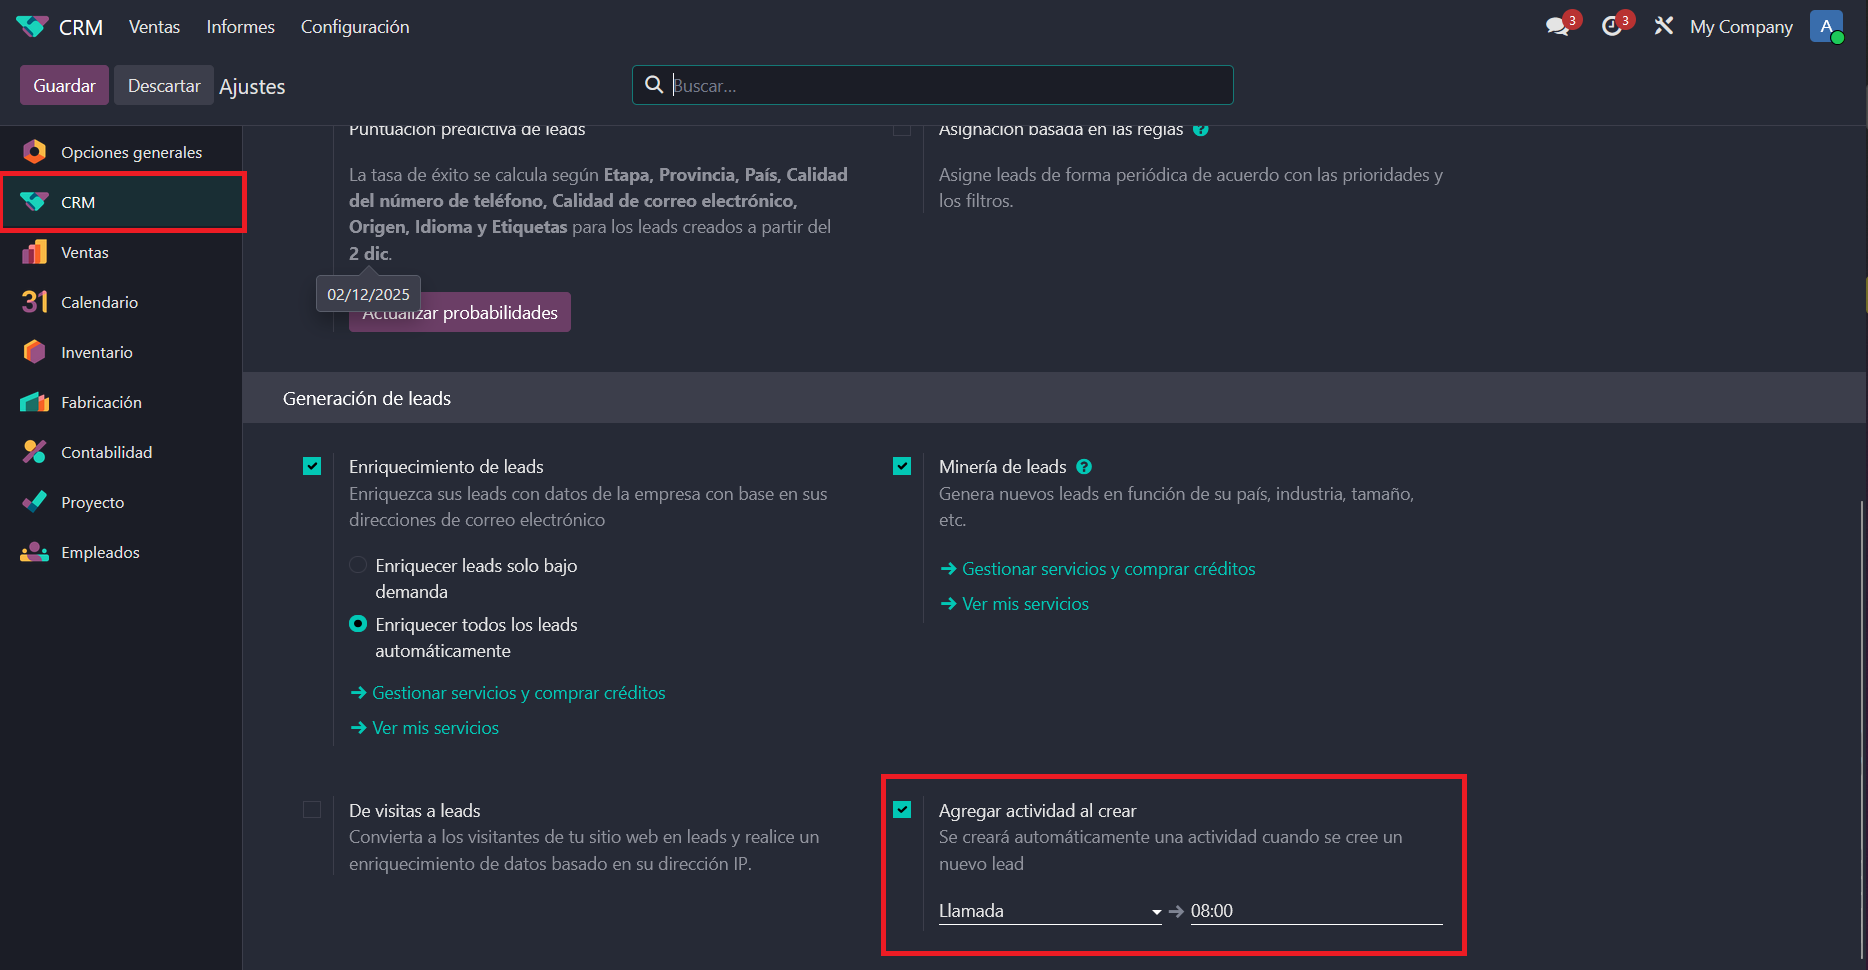
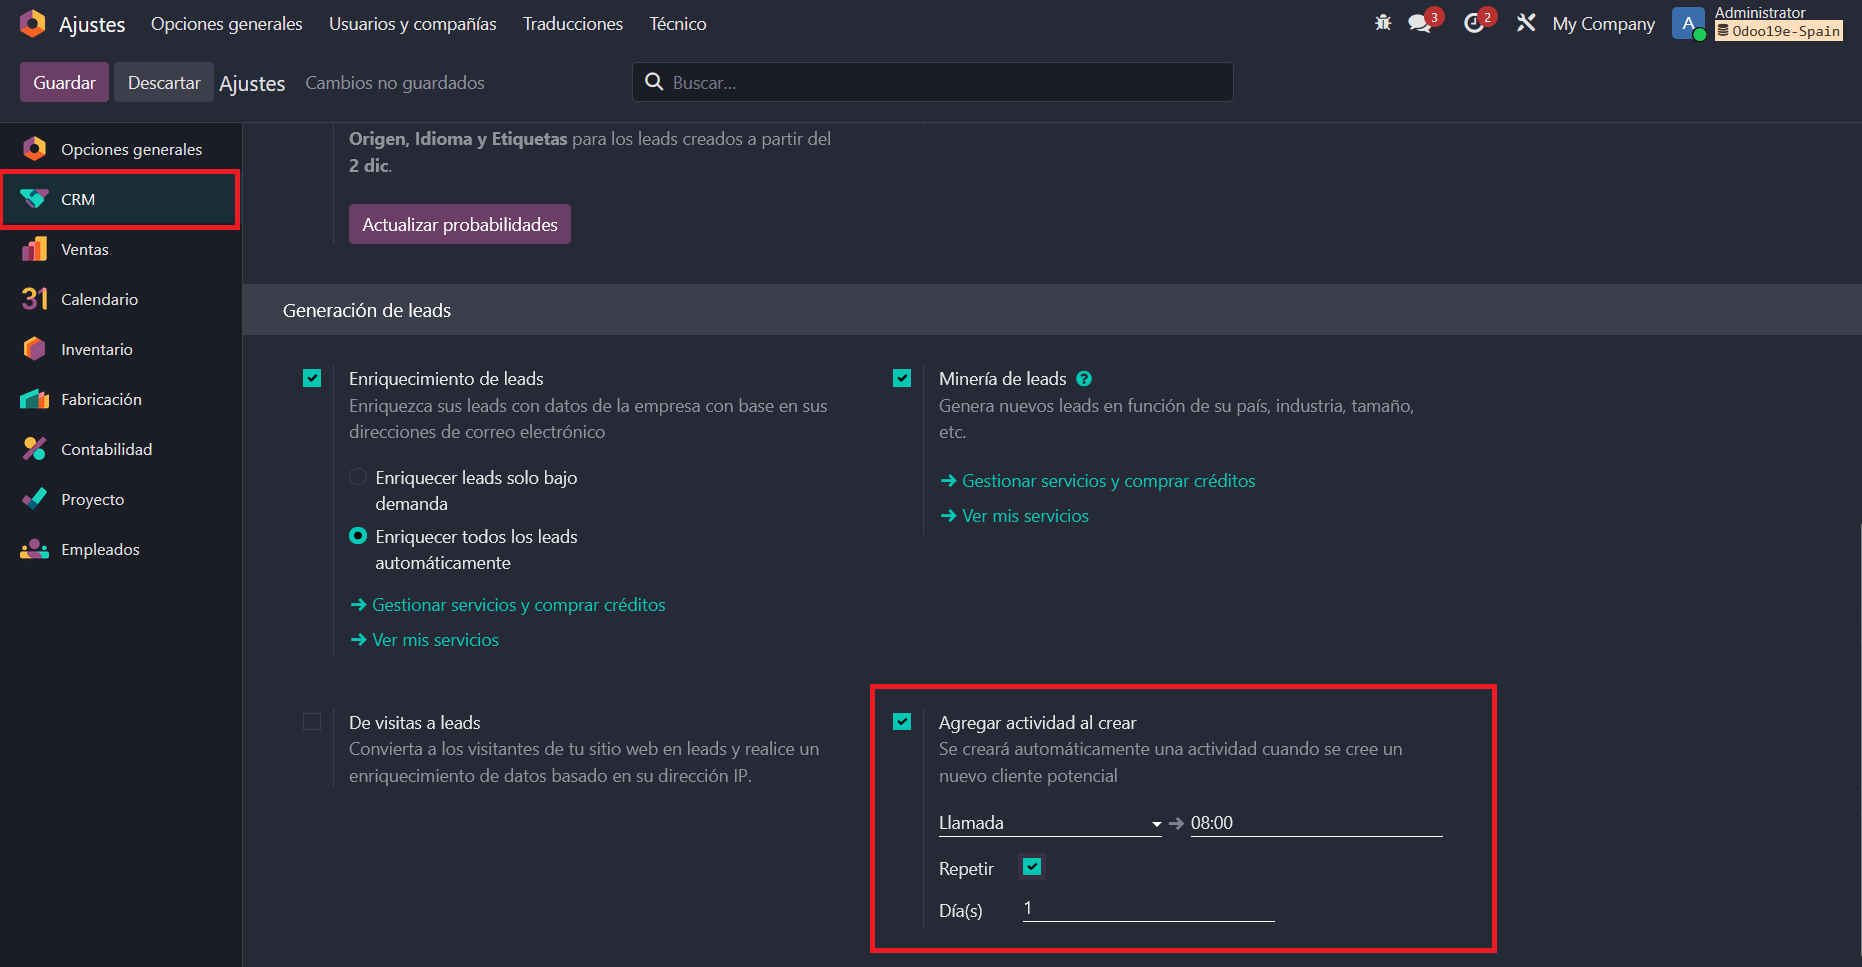
[ADD] e_activity_crm: Add in settings repeat data for automation creation [UPD] e_activity_crm: Check automated creation next time valid [i18n]

diff --git a/e_activity_crm/static/description/index.html b/e_activity_crm/static/description/index.html
@@ -49,7 +49,7 @@
                                 <img alt="Screenshot 1" class="img-fluid border rounded mt-2" src="assets/screenshots/1.png"/>
                             </li>
                             <li class="mb-3">
-                                <strong>Generic:</strong> Pick activity type, due-time and for automatic activity creation<br/>
+                                <strong>Generic:</strong> Pick activity type, due-time and repetition for automatic activity creation<br/>
                                 <img alt="Screenshot 2" class="img-fluid border rounded mt-2" src="assets/screenshots/2.png"/>
                             </li>
                             <li class="mb-3">
@@ -67,7 +67,7 @@
                             </li>
                             <li>
                                 <strong>Cron driven:</strong> A lightweight cron job (<code>ir.cron</code>) looks every configurated minutes for activities that match:
-                                <code>active = True, res_model = 'crm.lead', is_periodic = True, repeated = False, repetition_period &gt; 0</code> and duplicates them.
+                                <code>active = True, res_model = 'crm.lead', is_periodic = True, repeated = False, repetition_period_days < 0</code> and duplicates them.
                             </li>
                         </ul>
                     </div>

diff --git a/e_activity_crm/models/crm_lead.py b/e_activity_crm/models/crm_lead.py
@@ -1,5 +1,6 @@
 from odoo import api, fields, models, _
 from odoo.exceptions import UserError
+from datetime import datetime,UTC
 from odoo.addons.e_activity_datetime.utils.date import get_server_utc_datetime
 from datetime import timedelta
 class CrmLead(models.Model):
@@ -22,25 +23,35 @@ class CrmLead(models.Model):
             h, m = 8, 0
 
         deadline_datetime = get_server_utc_datetime(h,m)
-        
+        if deadline_datetime < datetime.now(UTC).replace(tzinfo=None):
+            deadline_datetime += timedelta(days=1)
+            
         activity_type_id = int(ICP.get_param('crm_lead_auto_activity.auto_lead_activity_type_id', default=0))
         if not activity_type_id:
             return leads
-
+        try:
+            periodic_vals = {
+                'is_periodic': bool(ICP.get_param('crm_lead_auto_activity.auto_is_periodic', default=False)),
+                'repetition_period_days': int(ICP.get_param('crm_lead_auto_activity.auto_repetition_period_days_days', default=0)),
+            }
+        except:
+            periodic_vals = {}
         activity_type = self.env['mail.activity.type'].browse(activity_type_id).exists()
         if not activity_type:
             raise UserError(_('The default activity type configured in CRM settings no longer exists.'))
-
+        
         activities = [{
             'res_id': lead.id,
             'res_model_id': self.env['ir.model']._get_id('crm.lead'),
             'activity_type_id': activity_type.id,
             'summary': _("Discovery Call") ,
-            'note': _('This is an automatic activity created upon lead creation.'),
+            'note': _('This is an automatic activity created upon lead start.'),
             'date_deadline': fields.Date.context_today(self),
             'datetime_deadline': deadline_datetime,
             'all_day':False,
             'user_id': lead.user_id.id or self.env.user.id,
+            **periodic_vals,
+            
         } for lead in leads]
         
         self.env['mail.activity'].create(activities)
@@ -54,13 +65,14 @@ class CrmLead(models.Model):
             ('res_model','=','crm.lead'),
             ('is_periodic','=',True),
             ('repeated','=',False),
-            ('repetition_period','>',0),
-        ]).filtered(lambda rec: fields.Datetime.now() > rec.datetime_deadline and rec.in_crm_stage)
+            ('repetition_period_days','>',0),
+        ]).filtered(lambda rec: rec.state == 'overdue' and rec.in_crm_stage)
         
         for activity in activities:
             activity.copy({
-                'datetime_deadline': activity.datetime_deadline + timedelta(days=activity.repetition_period),
-                'date_deadline': activity.date_deadline + timedelta(days=activity.repetition_period),
+                'datetime_deadline': activity.datetime_deadline + timedelta(days=activity.repetition_period_days),
+                'date_deadline': activity.date_deadline + timedelta(days=activity.repetition_period_days),
+                'note': f"[{_('REPEATED')}]" + activity.note,
             })
             activity.repeated = True,
             activity.env.cr.commit()

diff --git a/e_activity_crm/models/mail_activity.py b/e_activity_crm/models/mail_activity.py
@@ -4,7 +4,7 @@ class MailActivity(models.Model):
     _inherit = 'mail.activity'
     
     is_periodic = fields.Boolean("Is Periodic",default=False,help="If checked, this activity will be created again after being marked as done.")
-    repetition_period = fields.Integer("Repetition Period (Days)",default=1,help="Number of days after which the activity will be created again")
+    repetition_period_days = fields.Integer("Repetition Period (Days)",default=1,help="Number of days after which the activity will be created again")
     in_crm_stage = fields.Boolean("In CRM Stage",compute="_compute_in_crm_stage",help="Indicates whether this CRM activity is associated with a automated stage.") 
     repeated = fields.Boolean("Repeated",help="It indicates when the activity has already been repeated.")
     def _compute_in_crm_stage(self):

diff --git a/e_activity_crm/models/res_config_settings.py b/e_activity_crm/models/res_config_settings.py
@@ -19,3 +19,14 @@ class ResConfigSettings(models.TransientModel):
         help="Default time deadline for the created activity on new lead",
         config_parameter='crm_lead_auto_activity.auto_lead_time_deadline',
     )
+    auto_is_periodic = fields.Boolean(
+        string='Make Activity Periodic',
+        config_parameter='crm_lead_auto_activity.auto_is_periodic',
+        help="If checked, the created activity will be periodic.",
+    )
+    auto_repetition_period_days_days = fields.Integer(
+        string='Repetition Period (days)',
+        config_parameter='crm_lead_auto_activity.auto_repetition_period_days_days',
+        help="Number of days between each repetition of the activity.",
+        default=1,
+    )

diff --git a/e_activity_crm/__manifest__.py b/e_activity_crm/__manifest__.py
@@ -1,7 +1,7 @@
 # -*- coding: utf-8 -*-
 {
     'name': 'E Activity CRM',
-    'version': '19.2.1',
+    'version': '19.3.1',
     'summary': "Edit CRM for Activity Datetime ",
     'description':  "Add automatic activity creation upon lead creation based on configuration."
                     "Add periodic activity regeneration for CRM leads based on stage configuration.",

diff --git a/e_activity_crm/README.md b/e_activity_crm/README.md
@@ -12,7 +12,7 @@ Whenever a lead is created, the system instantly schedules the activity you conf
 
 - **Create lead with activity  :**: Generates a new activity when creating the lead 
 ![IMAGE](static/description/assets/screenshots/1.png)
-- **Generic:** Pick activity type, due-time and for automatic activity creation
+- **Generic:** Pick activity type, due-time and repetition for automatic activity creation
 ![IMAGE](static/description/assets/screenshots/2.png)
 - **Timezone aware:**  The due hour is always shown in the user’s timezone; daylight-saving is handled by Odoo’s core. 
 - **Stage-gated recurrence:** A new “Allow recurring activities” checkbox is added to CRM stages – only leads in those stages can receive periodic copies. 
@@ -23,4 +23,4 @@ Whenever a lead is created, the system instantly schedules the activity you conf
 -**Immutable history:**  Once an activity is repeated (cloned) the original becomes read-only (`repeated = True`) so your audit trail is safe. 
 ![IMAGE](static/description/assets/screenshots/4.png)
 ![IMAGE](static/description/assets/screenshots/5.png) 
-- **Cron driven:** A lightweight cron job (`ir.cron`) looks every configurated minutes for activities that match: `active = True, res_model = 'crm.lead', is_periodic = True, repeated = False, repetition_period > 0` and duplicates them.
+- **Cron driven:** A lightweight cron job (`ir.cron`) looks every configurated minutes for activities that match: `active = True, res_model = 'crm.lead', is_periodic = True, repeated = False, repetition_period_days > 0` and duplicates them.
